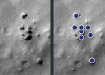
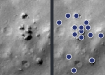
Fixing example images and example marks canvas size

diff --git a/src/pages/lunar-melt-page.vue b/src/pages/lunar-melt-page.vue
@@ -40,7 +40,7 @@
           <h3>Craters, Boulders, Rocks</h3>
           <p >We are mapping geologic features related to flowing impact melt
             in the Moon's Little Lowell & Tycho craters. Long ago, the heat
-            of asteroid impacts melted the regions you're mapping. You're
+            of asteroid impacts melted the regions you're mapping. Your
             work helps us understand how the melt flowed & when it cooled. </p>
 
           <br/>
@@ -192,6 +192,8 @@ onMounted(async () => {
 
   // Draw the example marks on the canvas: a 6px circle and a 6 pixel line
   const canvasExample = exampleMarks.value;
+  canvasExample.width=100;
+  canvasExample.height=75;
   const ctxExample = canvasExample.getContext('2d');
   //
   // // Draw example circle

diff --git a/src/components/blurbs.vue b/src/components/blurbs.vue
@@ -4,7 +4,7 @@
       title="Lunar Melt"
       description="Help us map out ancient geologies on the Moon."
       image="https://moon-mappers.s3.us-east-2.amazonaws.com/Moon.png"
-      link="moon-mapper"
+      link="lunar-melt"
   />
   <Blurb
       title="Mars Mosaics"
